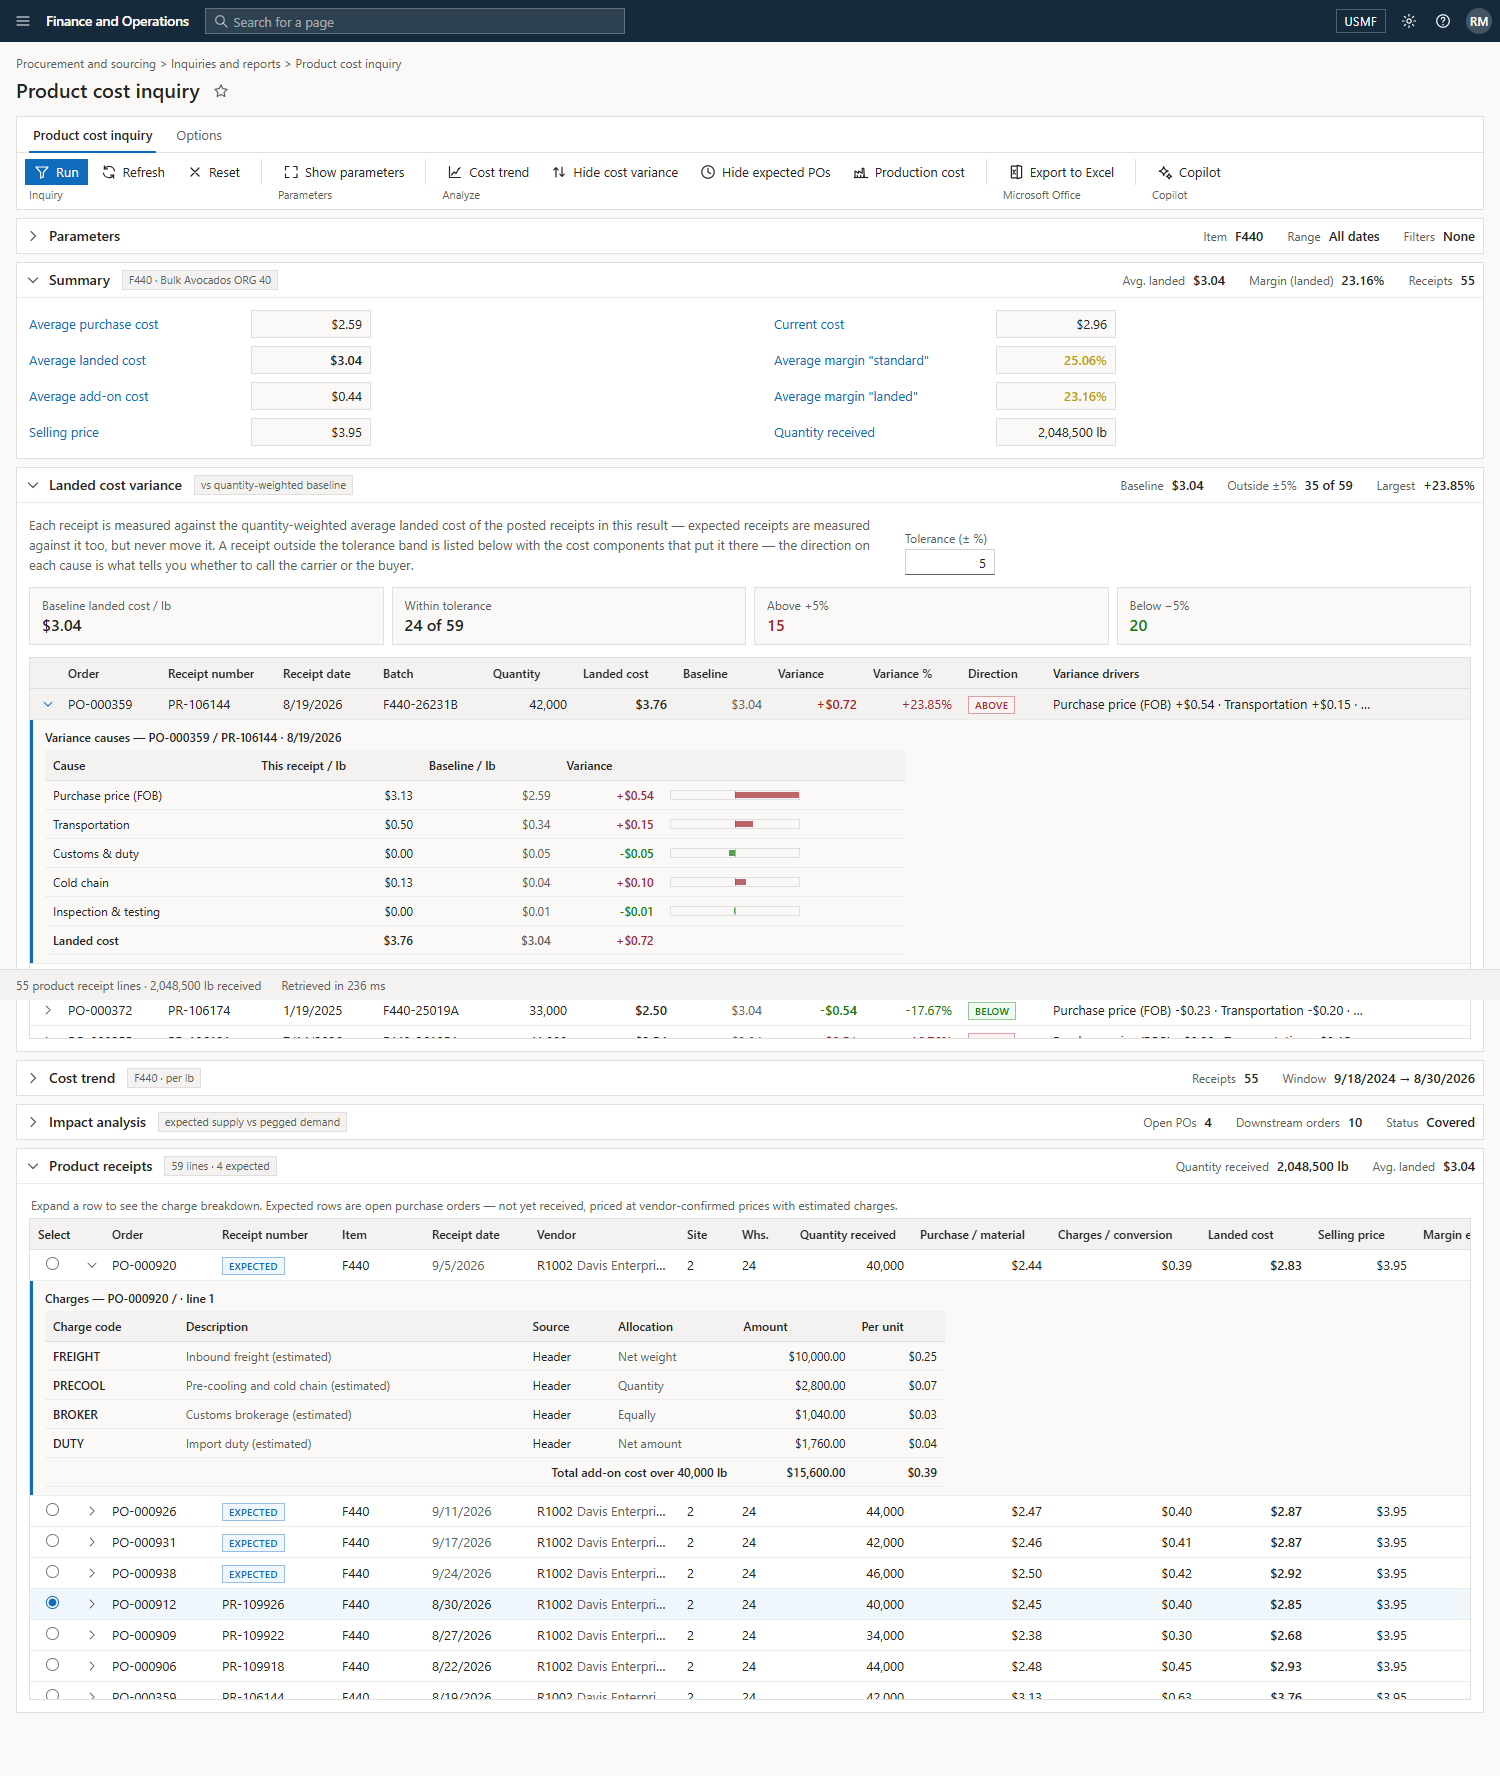
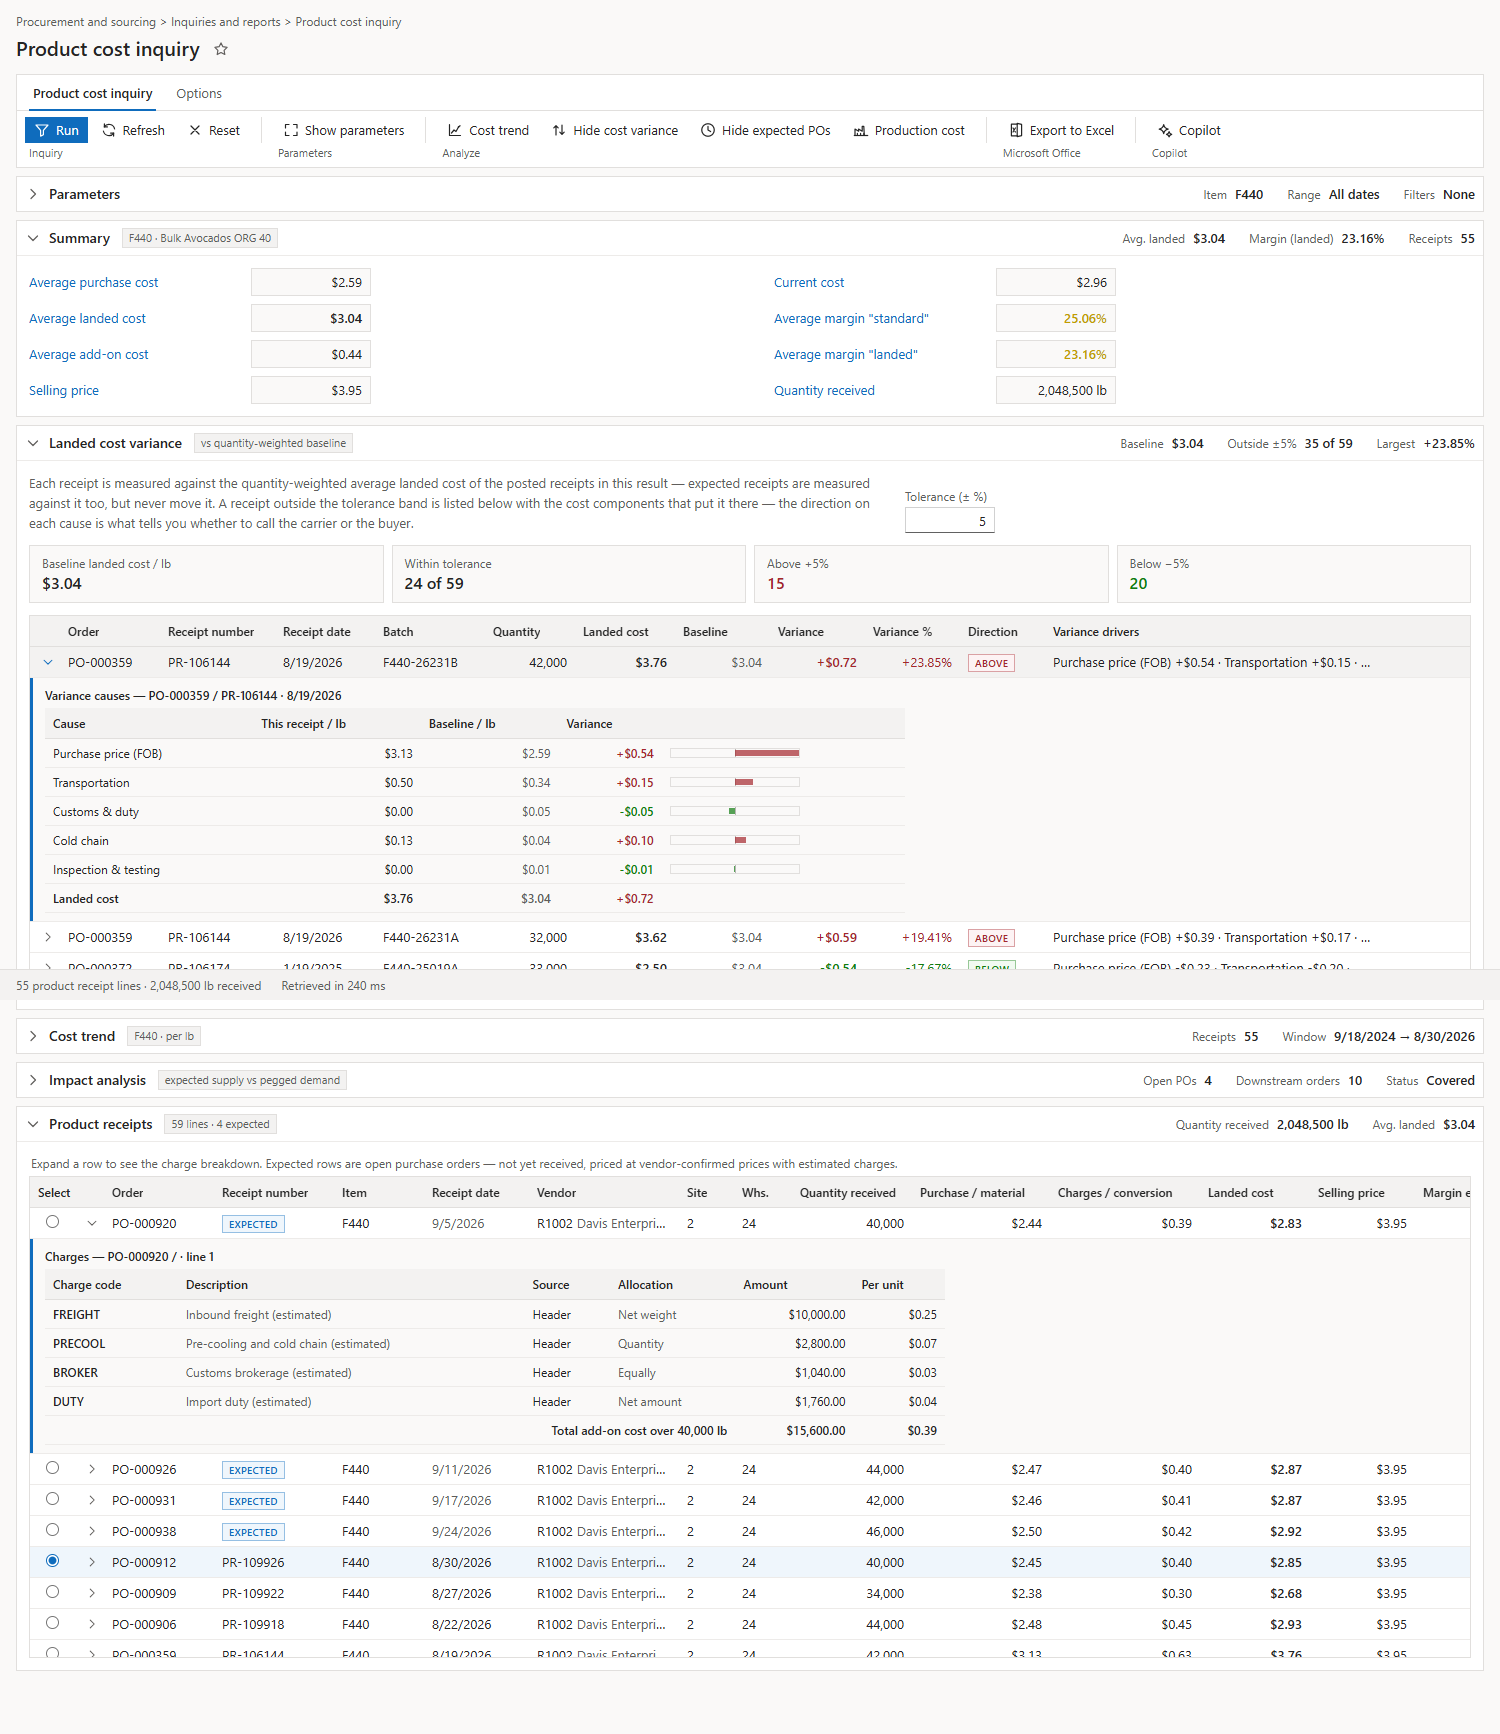
nav-bar-removal

diff --git a/web/src/lib/embed.ts b/web/src/lib/embed.ts
@@ -1,14 +1,18 @@
 /**
- * Whether the app is running embedded inside another shell — typically an
- * iframe or website host control on a Dynamics 365 Finance and Supply Chain
- * workspace. Embedded, the page must not draw its own "Finance and Operations"
- * navigation bar: the host already has one, and two of them reads as a mockup.
+ * Whether the app draws its own "Finance and Operations" navigation bar.
+ *
+ * It does NOT by default: this workspace is built to be embedded inside a real
+ * Dynamics 365 Finance and Supply Chain environment (iframe / website host
+ * control), where the host already has that bar and two of them reads as a
+ * mockup. For a standalone demo outside D365, `?embed=0` restores the full
+ * chrome — banner, page search, and the navigation pane.
  *
  * Resolution order, first hit wins:
- *   1. `?embed=1` in the query string (survives hash navigation, so it is the
- *      form to use in the workspace URL): `.../index.html?embed=1#/product-cost`
- *   2. `embed=1` among the hash parameters: `#/product-cost?embed=1`
- *   3. `VITE_EMBED=1` in web/.env, for a build that is only ever embedded.
+ *   1. `?embed=0` / `?embed=1` in the query string (survives hash navigation):
+ *      `.../index.html?embed=0#/product-cost`
+ *   2. The same among the hash parameters: `#/product-cost?embed=0`
+ *   3. `VITE_EMBED` in web/.env, to fix a build one way or the other.
+ *   4. Embedded (bar hidden).
  *
  * Latched once at module load. The hash form is therefore sticky for the
  * session even though in-app navigation rewrites the hash parameters.
@@ -34,7 +38,7 @@ function resolveEmbedded(): boolean {
   const fromHash =
     q >= 0 ? asFlag(new URLSearchParams(hash.slice(q + 1)).get('embed')) : undefined
 
-  return fromSearch ?? fromHash ?? asFlag(import.meta.env.VITE_EMBED) ?? false
+  return fromSearch ?? fromHash ?? asFlag(import.meta.env.VITE_EMBED) ?? true
 }
 
 export const isEmbedded = resolveEmbedded()

diff --git a/web/src/components/d365/AppShell.tsx b/web/src/components/d365/AppShell.tsx
@@ -15,10 +15,10 @@ import {
  * The Finance and Operations application frame: dark navigation bar, module
  * breadcrumb, page caption, then the form body on the light canvas.
  *
- * When the app is embedded inside a real F&SC workspace (`?embed=1`, or
- * VITE_EMBED — see lib/embed.ts) the dark bar is omitted entirely: the host
- * already draws it, and the page starts at the breadcrumb the way a native
- * form does.
+ * The dark bar is omitted by default — the app is built to be embedded inside
+ * a real F&SC workspace, whose host already draws it — and the page starts at
+ * the breadcrumb the way a native form does. `?embed=0` (or VITE_EMBED=0 — see
+ * lib/embed.ts) restores it for a standalone demo.
  */
 
 interface AppShellProps {

diff --git a/web/src/vite-env.d.ts b/web/src/vite-env.d.ts
@@ -7,9 +7,10 @@ interface ImportMetaEnv {
   /** Base URL of the F&O environment, used to build drill-through deep links. */
   readonly VITE_D365_URL?: string
   /**
-   * Set to 1 to hide the app's own Finance and Operations navigation bar, for
-   * builds embedded inside a real F&SC workspace. `?embed=1` on the URL does
-   * the same per-session — see lib/embed.ts.
+   * The Finance and Operations bar is hidden by default (the app is built to
+   * be embedded in a real F&SC workspace). Set to 0 to build with the
+   * standalone chrome; `?embed=0` on the URL does the same per-session — see
+   * lib/embed.ts.
    */
   readonly VITE_EMBED?: string
 }

diff --git a/README.md b/README.md
@@ -591,7 +591,7 @@ npm run dev        # one terminal
 node verify.mjs    # another — asserts the anchor rows still hold
 ```
 
-49 checks.
+51 checks.
 
 *Both pages* — that the Item field opens empty, that pressing Run without one
 asks for it instead of guessing, and that the grid stays empty until an item is
@@ -619,8 +619,9 @@ that the variance bridge splits the four cost groups and packaging drills down
 to its component lines, that Copilot writes an analysis quoting the item and
 ending in actions, and that a component drills back through to its receipts.
 
-*Embedding* — that `?embed=1` removes the Finance and Operations bar with the
-form itself unchanged.
+*Embedding* — that the Finance and Operations bar is hidden by default, and
+that `?embed=0` restores the standalone chrome whose navigation pane routes
+between the two inquiries.
 
 Writes `verify-inquiry.png`, `verify-variance.png`, `verify-impact.png`,
 `verify-production.png`, `verify-trend.png`, `verify-production-plan.png`,
@@ -650,18 +651,17 @@ hash-based, so no SPA rewrite rules or `404.html` fallback are needed.
 ### Embedding in Finance and Supply Chain
 
 The workspace is built to be hosted inside a real F&SC environment (iframe or
-website host control on a workspace). Embedded, the app must not draw its own
-dark **Finance and Operations** bar — the host already has one — so the chrome
-is parameterised ([`web/src/lib/embed.ts`](web/src/lib/embed.ts)):
-
-```
-.../index.html?embed=1#/product-cost      per URL, no rebuild — the form to use
-                                          in the workspace configuration
-.../index.html#/product-cost?embed=1      also accepted; latched for the session
-VITE_EMBED=1                              in web/.env, for a build that is only
-                                          ever embedded
-```
-
-Everything below the bar — breadcrumb, caption, action pane, FastTabs, status
-bar — renders unchanged, and cross-page navigation stays available through the
+website host control on a workspace), so **it draws no dark "Finance and
+Operations" bar of its own by default** — the host already has one, and two of
+them reads as a mockup. Cross-page navigation stays available through the
 action pane buttons.
+
+For a standalone demo outside D365, restore the full chrome — banner, page
+search, navigation pane — with the same parameter
+([`web/src/lib/embed.ts`](web/src/lib/embed.ts)):
+
+```
+.../index.html?embed=0#/product-cost      per URL, no rebuild
+.../index.html#/product-cost?embed=0      also accepted; latched for the session
+VITE_EMBED=0                              in web/.env, to fix a build that way
+```
